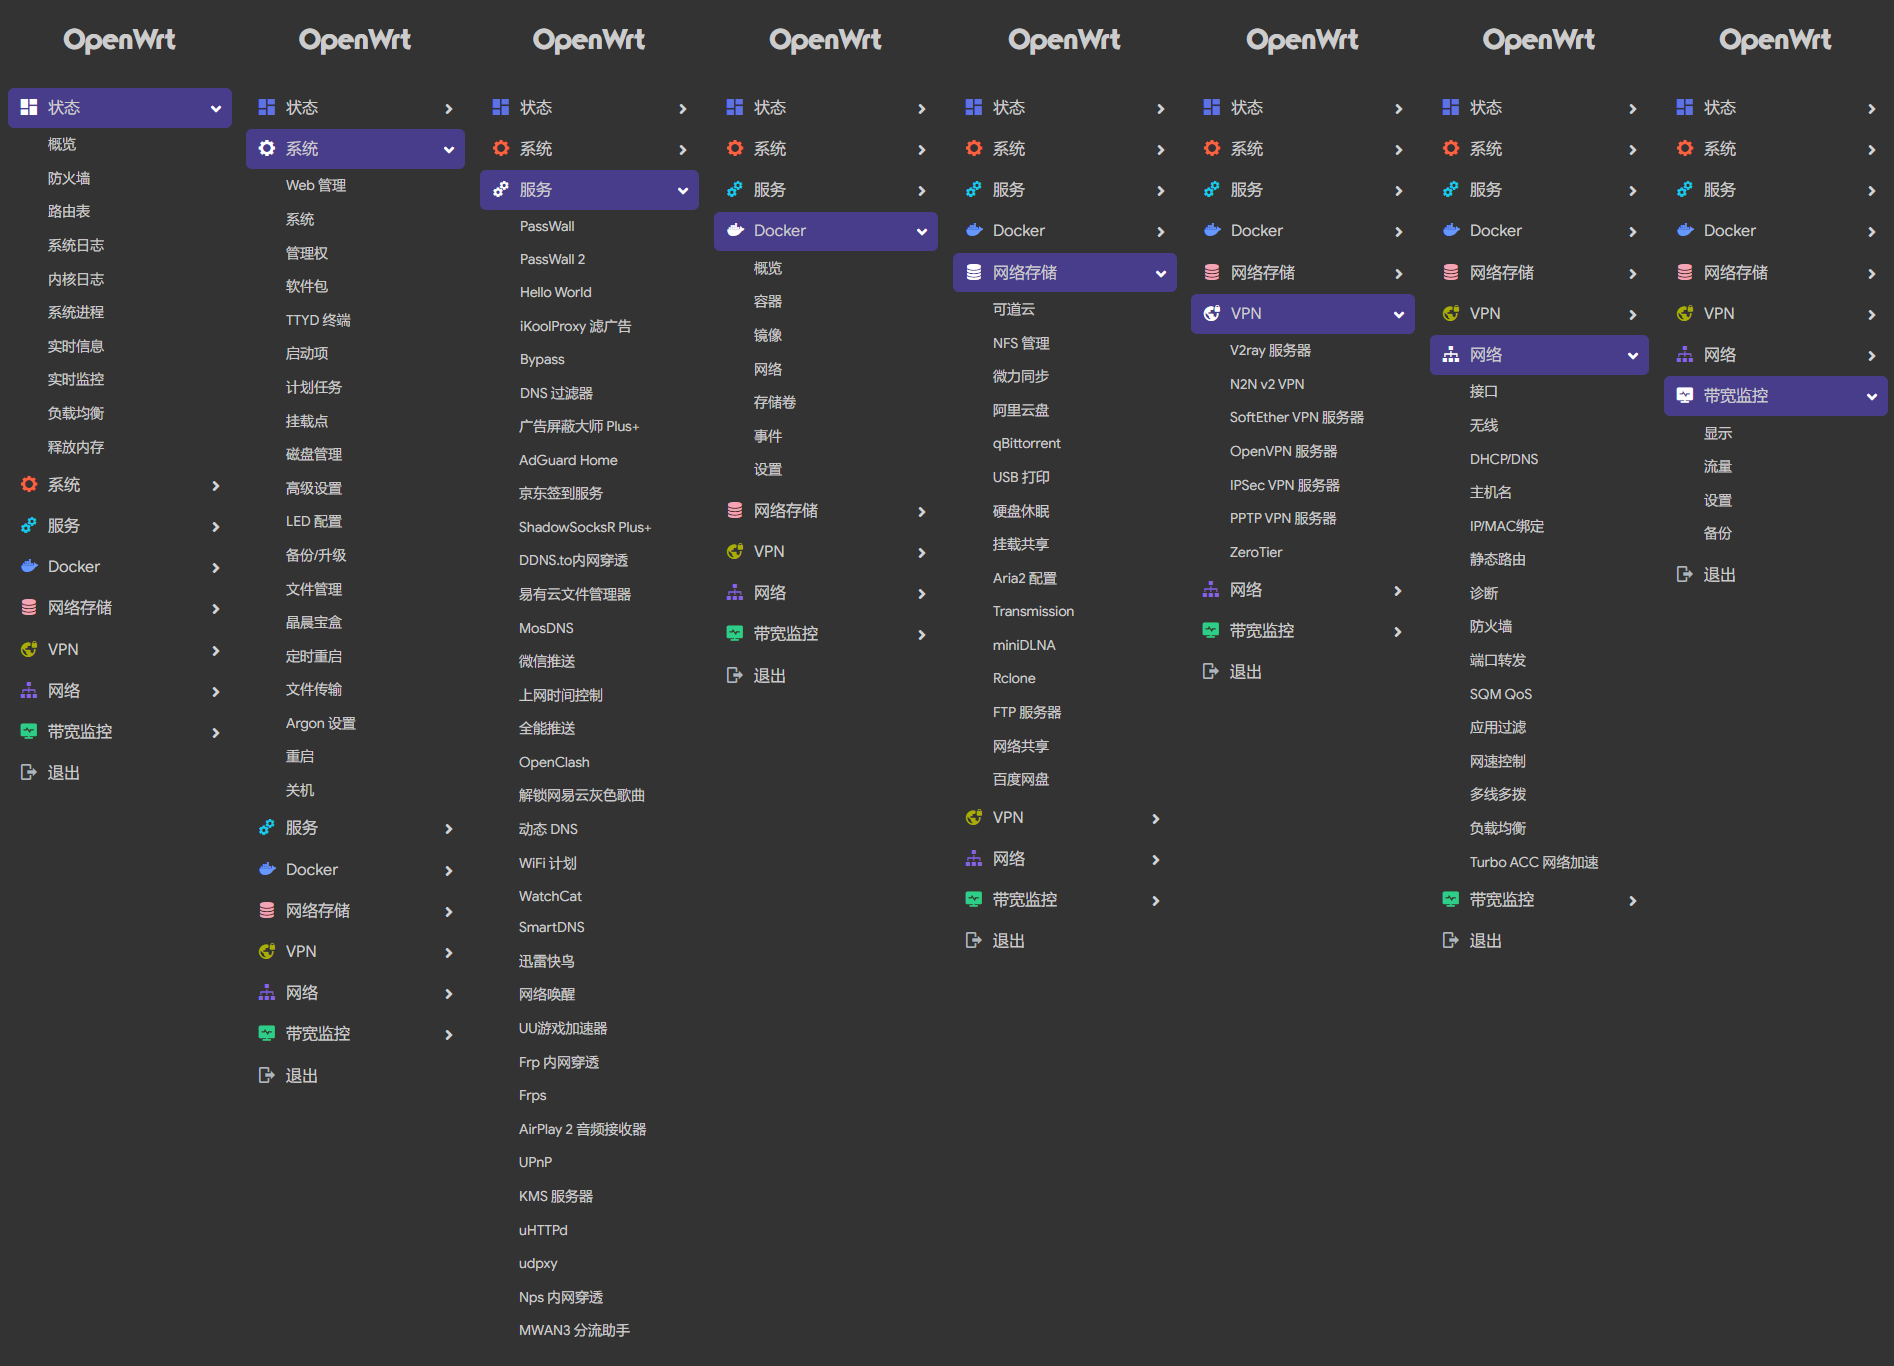
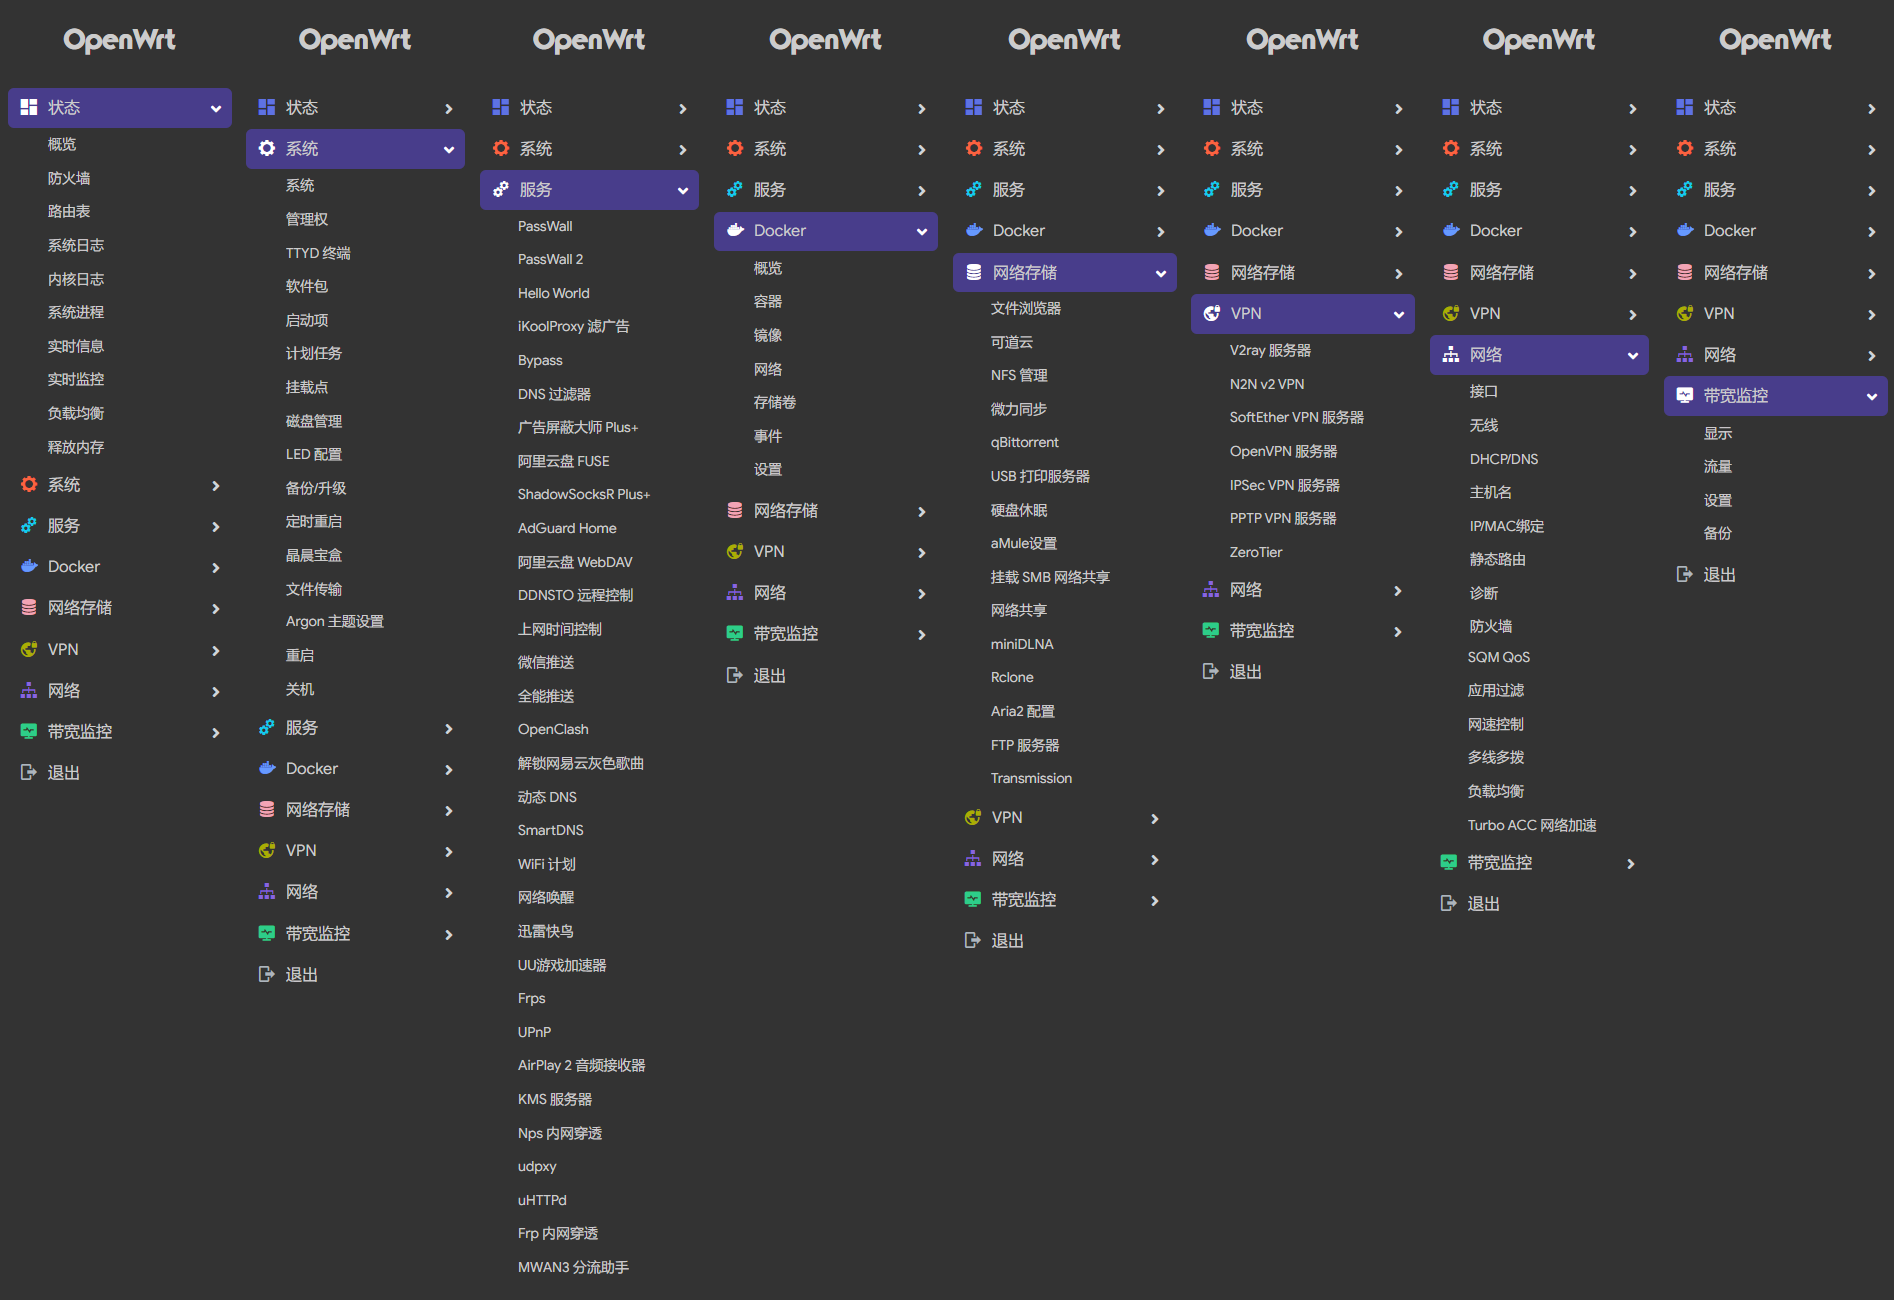
更新插件预览信息

Changed region(s): [[0.0, 0.0, 0.9968, 0.9846]]

diff --git a/README.md b/README.md
@@ -73,7 +73,6 @@
 </details>
 <details>
 <summary><b>├── 系统</b></summary>
-　├── Web 管理<br/>
 　├── 系统<br/>
 　├── 管理权<br/>
 　├── TTYD 终端<br/>
@@ -82,14 +81,12 @@
 　├── 计划任务<br/>
 　├── 挂载点<br/>
 　├── 磁盘管理<br/>
-　├── 高级设置<br/>
 　├── LED 配置<br/>
 　├── 备份/升级<br/>
-　├── 文件管理<br/>
 　├── 定时重启<br/>
 　├── 文件传输<br/>
 　├── Argon 主题设置<br/>
-　└── 重启<br/>
+　├── 重启<br/>
 　└── 关机
 </details>
 <details>
@@ -101,19 +98,17 @@
 　├── Bypass<br/>
 　├── DNS 过滤器<br/>
 　├── 广告屏蔽大师 Plus+<br/>
+　├── 阿里云盘 FUSE<br/>
+　├── 阿里云盘 WebDAV<br/>
 　├── AdGuard Home<br/>
-　├── 京东签到服务<br/>
 　├── ShadowSocksR Plus+<br/>
 　├── DDNS.to内网穿透<br/>
-　├── 易友云文件管理器<br/>
-　├── MosDNS<br/>
 　├── 微信推送<br/>
 　├── 上网时间控制<br/>
 　├── 全能推送<br/>
 　├── OpenClash<br/>
 　├── 解锁网易云灰色歌曲<br/>
 　├── 动态 DNS<br/>
-　├── WatchCat<br/>
 　├── SmartDNS<br/>
 　├── 迅雷快鸟<br/>
 　├── 网络唤醒<br/>
@@ -140,26 +135,26 @@
 </details>
 <details>
 <summary><b>├── 网络存储</b></summary>
+　├── 文件浏览器<br/>
 　├── 可道云<br/>
 　├── NFS 管理<br/>
 　├── 微力同步<br/>
-　├── 阿里云盘 WebDAV<br/>
 　├── qBittorrent<br/>
 　├── USB 打印服务器<br/>
 　├── 硬盘休眠<br/>
+　├── aMule设置<br/>
 　├── 挂载 SMB 网络共享<br/>
 　├── 网络共享<br/>
 　├── FTP 服务器<br/>
 　├── Rclone<br/>
 　├── Aria2 配置<br/>
 　├── miniDLNA<br/>
-　├── Transmission<br/>
-　└── BaiduPCS Web<br/>
+　└── Transmission
 </details>
 <details>
 <summary><b>├── VPN</b></summary>
-　├── N2N v2 VPN<br/>
 　├── V2ray 服务器<br/>
+　├── N2N v2 VPN<br/>
 　├── SoftEther VPN 服务器<br/>
 　├── OpenVPN 服务器<br/>
 　├── PPTP VPN 服务器<br/>
@@ -175,7 +170,6 @@
 　├── 静态路由<br/>
 　├── 防火墙<br/>
 　├── 诊断<br/>
-　├── Socat<br/>
 　├── SQM QoS<br/>
 　├── 应用过滤<br/>
 　├── 网速控制<br/>
@@ -271,8 +265,8 @@
 | [ImmortalWrt](https://github.com/immortalwrt) | [coolsnowwolf](https://github.com/coolsnowwolf) | [P3TERX](https://github.com/P3TERX) | [Flippy](https://github.com/unifreq) |
 | :-------------: | :-------------: | :-------------: | :-------------: |
 | <img width="100" src="https://avatars.githubusercontent.com/u/53193414"/> | <img width="100" src="https://avatars.githubusercontent.com/u/31687149"/> | <img width="100" src="https://avatars.githubusercontent.com/u/25927179"/> | <img width="100" src="https://avatars.githubusercontent.com/u/39355261"/> |
-| [Ophub](https://github.com/ophub) | [Jerrykuku](https://github.com/jerrykuku) | [QiuSimons](https://github.com/QiuSimons) | [IvanSolis1989](https://github.com/IvanSolis1989) |
-| <img width="100" src="https://avatars.githubusercontent.com/u/68696949"/> | <img width="100" src="https://avatars.githubusercontent.com/u/9485680"/> | <img width="100" src="https://avatars.githubusercontent.com/u/45143996"/> | <img width="100" src="https://avatars.githubusercontent.com/u/44228691"/> |
+| [Ophub](https://github.com/ophub) | [Breakings](https://github.com/breakings) | [QiuSimons](https://github.com/QiuSimons) | [IvanSolis1989](https://github.com/IvanSolis1989) |
+| <img width="100" src="https://avatars.githubusercontent.com/u/68696949"/> | <img width="100" src="https://avatars.githubusercontent.com/u/25475074"/> | <img width="100" src="https://avatars.githubusercontent.com/u/45143996"/> | <img width="100" src="https://avatars.githubusercontent.com/u/44228691"/> |
 
 
 <a href="#readme">
